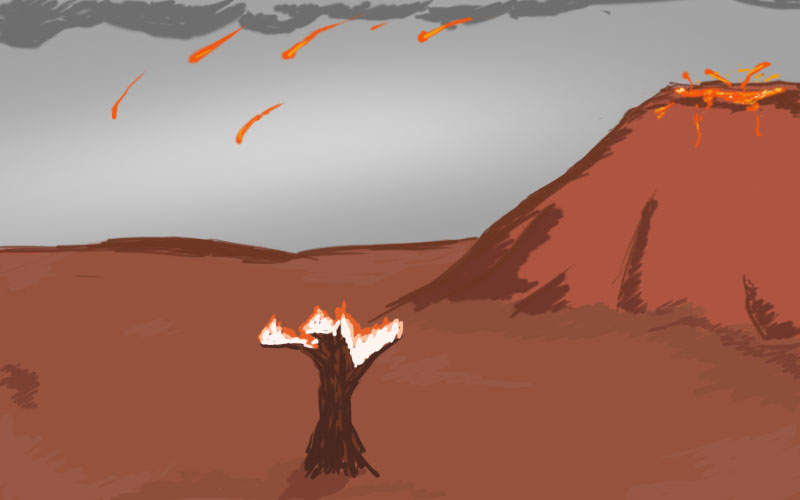
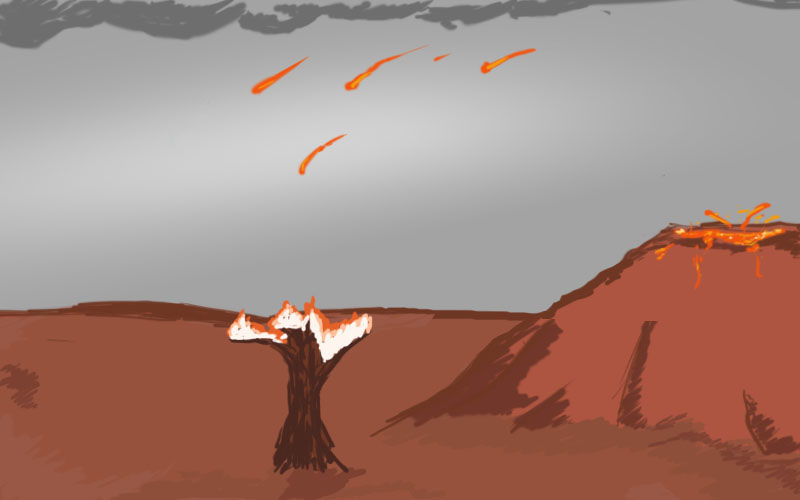
added fire theme and gifs for upcoming XY Pokemon

diff --git a/src/rpgsvg/MainGUI.java b/src/rpgsvg/MainGUI.java
@@ -168,15 +168,15 @@ public class MainGUI { // The main game window for RPG-SVG.
 	static MediaPlayer superPlayer;
 	static MediaPlayer resistPlayer;
 
-	static boolean playMusic = false;
+	static boolean playMusic = true;
 
 	public enum Theme {
 		
 		GROUND	(0, "MainGUIground.jpeg", "TeamGUIground.jpeg", "gymbattle.mp3", new Color(255, 250, 245)),
 		ROCK	(1, "MainGUIrock.jpeg", "TeamGUIrock.jpeg", "johtochampion.mp3", new Color(227, 227, 227)),
 		WATER	(2, "MainGUIwater.jpeg", "TeamGUIwater.jpeg", "laketrio.mp3", new Color(202, 221, 251)),
-		GRASS	(3, "MainGUIgrass.jpeg", "TeamGUIgrass.jpeg", "nbattle.mp3", new Color(215, 252, 191));
-		//FIRE	(4, "MainGUIfire.jpeg", "TeamGUIfire.jpeg", "cynthia.mp3", new Color(254, 222, 0));
+		GRASS	(3, "MainGUIgrass.jpeg", "TeamGUIgrass.jpeg", "nbattle.mp3", new Color(215, 252, 191)),
+		FIRE	(4, "MainGUIfire.jpeg", "TeamGUIfire.jpeg", "cynthia.mp3", new Color(254, 222, 0));
 		
 		private final int id;
 		private final String bgMainGUI;
@@ -192,6 +192,8 @@ public class MainGUI { // The main game window for RPG-SVG.
 			this.music = c;
 			this.color = i;
 		}
+		
+		
 		
 		public int ID() {
 			return this.id;
@@ -275,7 +277,7 @@ public class MainGUI { // The main game window for RPG-SVG.
 		Image image = null;
 		
 		try{
-			int j = (int)(Math.random() * 4);
+			int j = (int)(Math.random() * 5);
 			for(Theme x: Theme.values())
 			{
 				if(j == x.ID())
@@ -283,7 +285,6 @@ public class MainGUI { // The main game window for RPG-SVG.
 					theme = x;
 				}
 			}
-			
 			
 			ImageIcon i = new ImageIcon(this.getClass().getResource("Media/Images/" + theme.bgMainGUI));
 			image = i.getImage();
